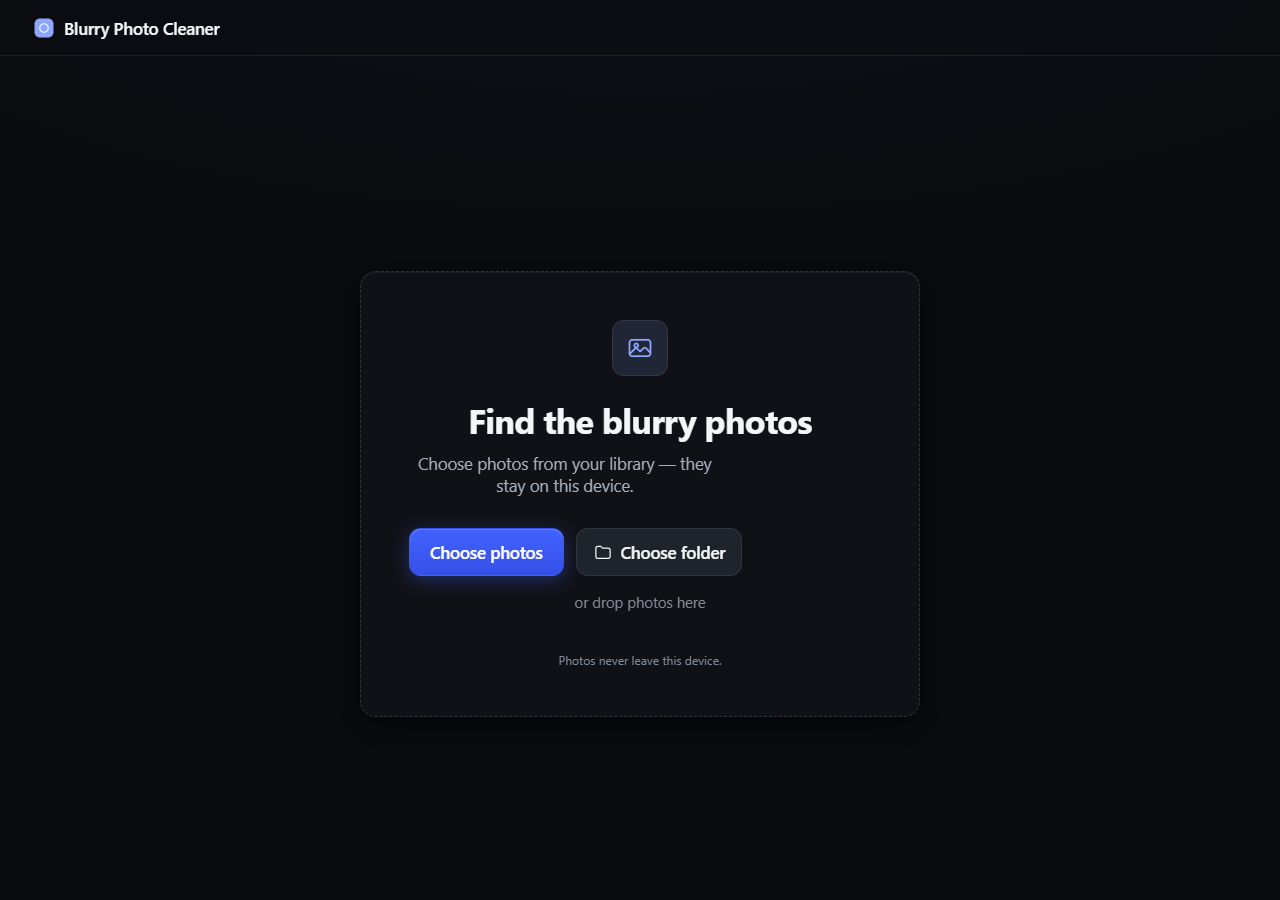
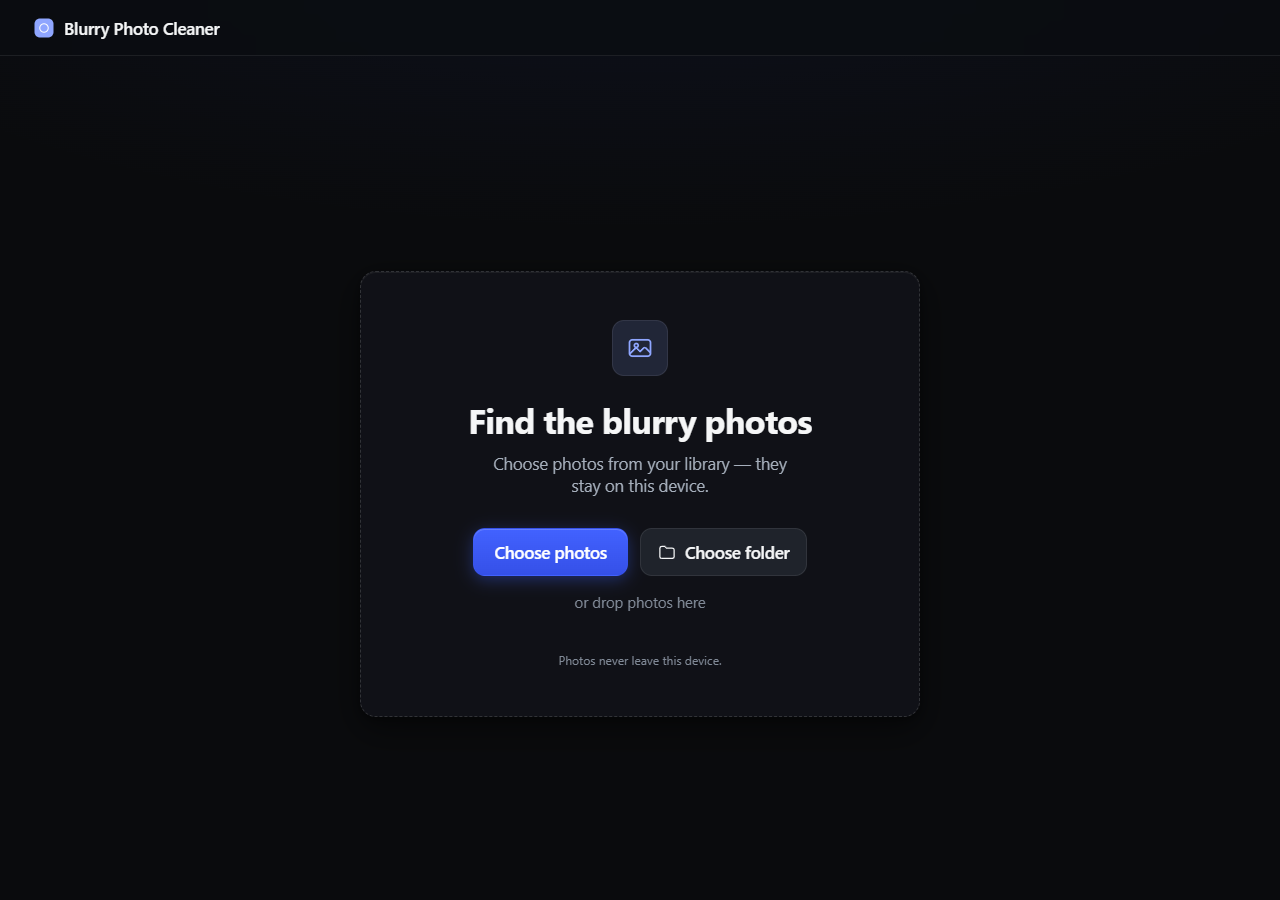
v0.5.2 - center empty-state body and button pair inside the card, bump asset cache-buster

Changed region(s): [[0.3125, 0.4978, 0.625, 0.6533], [0.5938, 0.4978, 0.625, 0.5289]]

diff --git a/css/style.css b/css/style.css
@@ -523,7 +523,10 @@ img {
 }
 
 .empty-state__body {
-  margin: var(--space-12) 0 0;
+  /* margin-inline: auto centers the 34ch box in the card — as a child of
+     the (block) card it no longer inherits the flex-item centering it had
+     under the .empty-state column. Measured -75px off-center without it. */
+  margin: var(--space-12) auto 0;
   max-width: 34ch;
   font-size: var(--text-body);
   line-height: var(--line-body);
@@ -535,6 +538,10 @@ img {
   display: flex;
   flex-direction: column;
   align-items: center;
+  /* Desktop row: center the button pair in the card (measured -154px
+     off-center without it — the card wrapper broke the old flex-item
+     centering chain). No-op for the mobile column. */
+  justify-content: center;
   gap: var(--space-12);
   margin-top: var(--space-32);
 }

diff --git a/index.html b/index.html
@@ -40,7 +40,7 @@
   <meta name="description" content="Find the blurry photos in your library. Photos never leave this device.">
   <title>Blurry Photo Cleaner</title>
   <link rel="icon" href="assets/mark.svg" type="image/svg+xml">
-  <link rel="stylesheet" href="css/style.css?v=v0.5.1">
+  <link rel="stylesheet" href="css/style.css?v=v0.5.2">
 </head>
 <body>
 
@@ -106,6 +106,6 @@
   <!-- Core input (plan Decision Record): file picker with drag-drop. -->
   <input id="file-input" class="hidden-input" type="file" accept="image/*" multiple tabindex="-1" aria-hidden="true">
 
-  <script type="module" src="js/main.js?v=v0.5.1"></script>
+  <script type="module" src="js/main.js?v=v0.5.2"></script>
 </body>
 </html>
